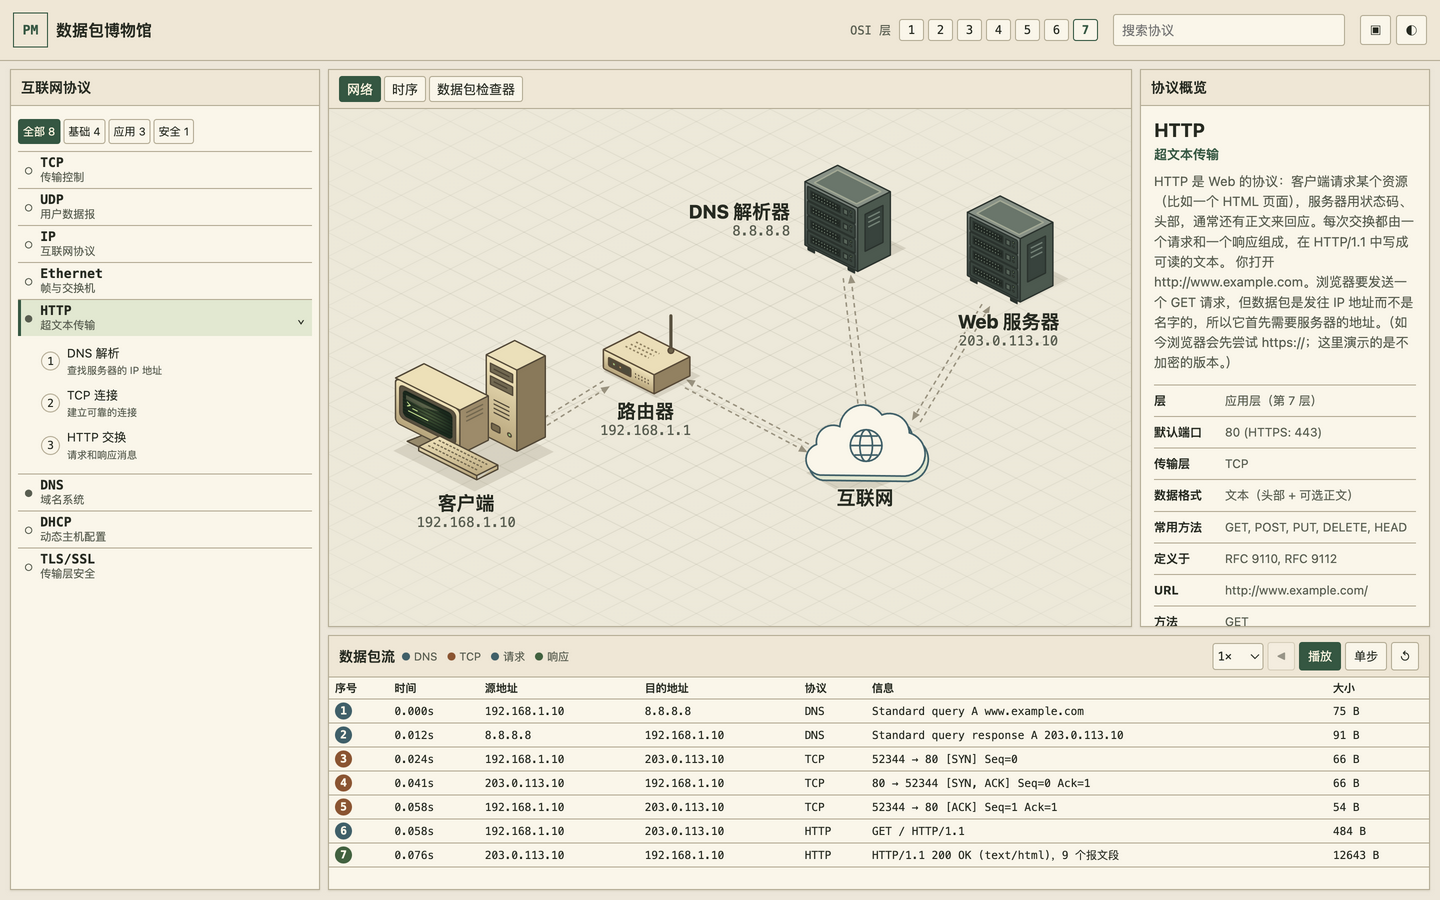
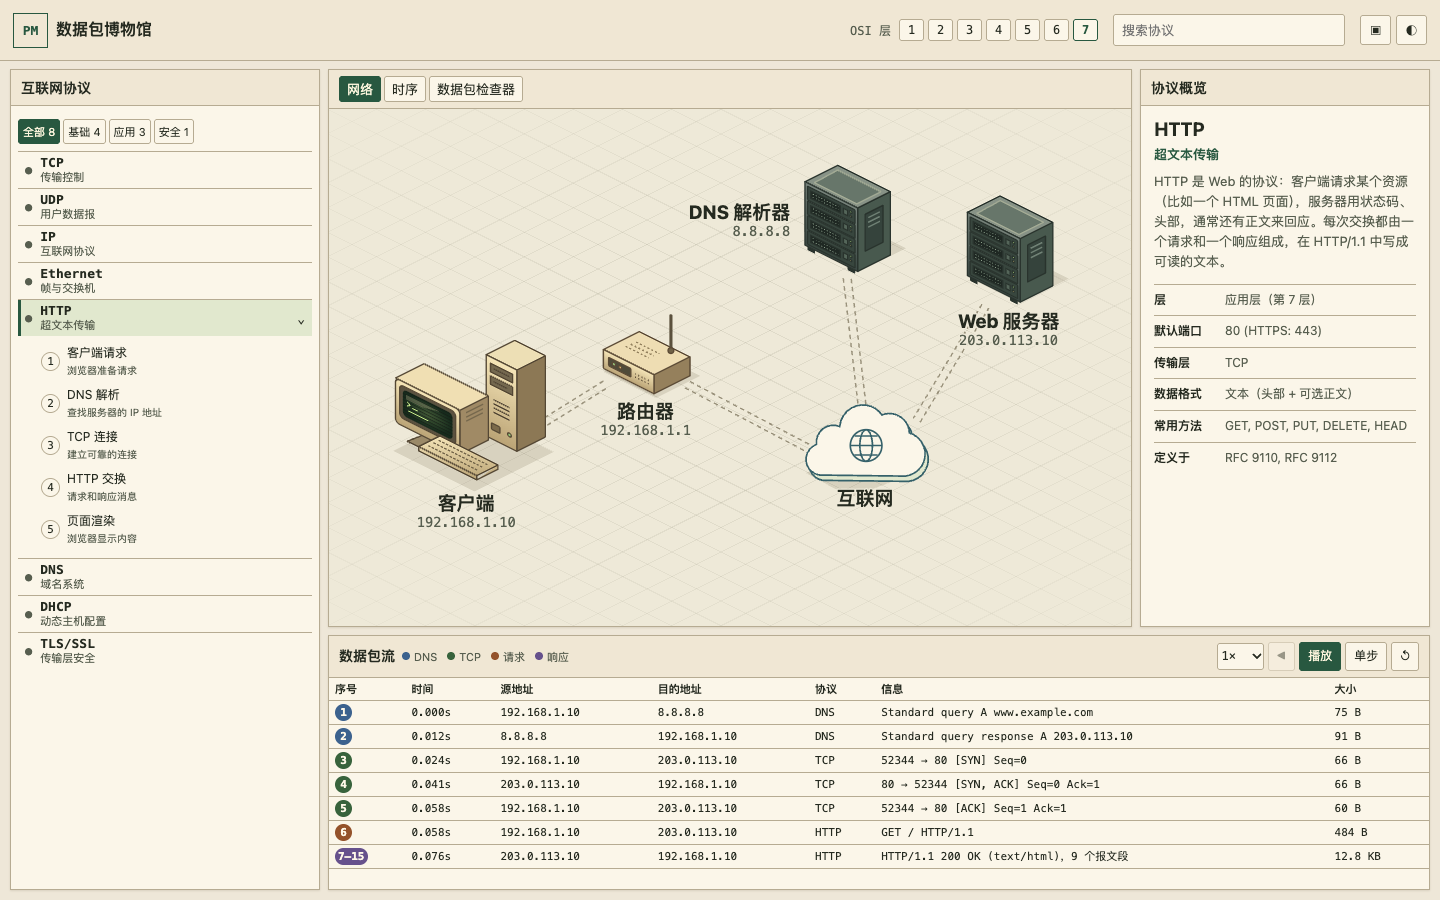
HTTP 课程加入无报文步骤并支持查看分段响应

diff --git a/src/lessons/http/frames.js b/src/lessons/http/frames.js
@@ -6,7 +6,7 @@ const clientMac = '00:00:5e:00:53:10', routerMac = '00:00:5e:00:53:01';
 const pathTo = endpoint => ['client', 'router', 'internet', endpoint];
 
 function ethernetIPv4(src, dst, id, ttl, flags, protocol, payload, reply) {
-  return ethernet({ src: reply ? routerMac : clientMac, dst: reply ? clientMac : routerMac,
+  return ethernet({ src: reply ? routerMac : clientMac, dst: reply ? clientMac : routerMac, pad: true,
     payload: ipv4({ src, dst, id, ttl, flags, protocol, payload }) });
 }
 
@@ -60,16 +60,25 @@ const rows = [
   ['web', true, tcpFrames[1], 'TCP', '0.041s', '80 → 52344 [SYN, ACK] Seq=0 Ack=1', 'tcp', ['SYN-ACK', 'seq=0 ack=1']],
   ['web', false, tcpFrames[2], 'TCP', '0.058s', '52344 → 80 [ACK] Seq=1 Ack=1', 'tcp', ['ACK', 'seq=1 ack=1']],
   ['web', false, tcpFrames[3], 'HTTP', '0.058s', 'GET / HTTP/1.1', 'request', ['GET / HTTP/1.1', 'Host: www.example.com'], 'http'],
-  ['web', true, response, 'HTTP', '0.076s', 'HTTP/1.1 200 OK (text/html)，9 个报文段', 'reply', ['HTTP/1.1 200 OK', '12.2 KB，分 9 个报文段']],
 ];
 
-export const frames = rows.map(([endpoint, reply, bytes, protocol, time, summary, category, badge, application], i) => {
+export const responseIds = [];
+const { client, web } = addresses;
+for (let offset = 0, i = 0; offset < response.length; offset += 1460, i++) {
+  const payload = response.subarray(offset, offset + 1460), last = offset + payload.length === response.length;
+  const segment = tcp({ src: web, dst: client, srcPort: 80, dstPort: 52344,
+    seq: 2474976681 + offset, ack: 59972903 + request.length, flags: last ? 0x18 : 0x10, window: 501, payload });
+  responseIds.push(`http-${rows.length + 1}`);
+  rows.push(['web', true, ethernetIPv4(web, client, 3588 + i, 52, 0x4000, 6, segment, true), 'TCP', '0.076s',
+    `HTTP 响应 · TCP 段 ${i + 1}/9`, 'reply', ['HTTP/1.1 200 OK', '12.2 KB，分 9 个报文段'], undefined, 900 + i * 110]);
+}
+
+export const frames = rows.map(([endpoint, reply, bytes, protocol, time, summary, category, badge, application, leadMs], i) => {
   const path = pathTo(endpoint);
   if (reply) path.reverse();
   return {
     id: `http-${i + 1}`, path, bytes, protocol, time, summary, category, badge, application,
-    // shortcut: Inspect the reassembled message, not a fabricated jumbo TCP frame; upgrade when rows can group real segments.
-    ...(bytes === response ? { format: 'http', addresses: { src: addresses.web, dst: addresses.client } } : {}),
     ...(i === 0 ? { leadMs: 2400 } : {}),
+    ...(leadMs !== undefined ? { leadMs } : {}),
   };
 });

diff --git a/src/lessons/http/index.js b/src/lessons/http/index.js
@@ -1,4 +1,4 @@
-import { addresses, frames } from './frames.js';
+import { addresses, frames, responseIds } from './frames.js';
 import { outro, overview, preparation, rendering, stages } from './copy.js';
 
 const nodes = [
@@ -18,20 +18,20 @@ const links = [
 
 export default {
   meta: { id: 'http', title: 'HTTP', subtitle: '超文本传输', group: 2, order: 1, layer: 7 },
-  // shortcut: No-packet stages use the overview and summary until playback accepts steps without frames.
-  overview: { ...overview, text: `${overview.text} ${preparation.text}`, facts: [...overview.facts, ...preparation.facts] },
-  outro: { ...outro, text: `${rendering.text} ${outro.text}`, facts: [...rendering.facts.slice(0, 2), ...outro.facts] },
-  nodes, links, frames,
+  overview, outro, nodes, links, frames,
+  reassembly: [{ frames: responseIds, protocol: 'HTTP', application: 'http', summary: 'HTTP/1.1 200 OK (text/html)，9 个报文段' }],
   sequenceNodes: ['client', 'resolver', 'web'],
   legend: {
-    dns: { label: 'DNS', tone: 'query' },
-    tcp: { label: 'TCP', tone: 'referral' },
-    request: { label: '请求', title: 'GET /', tone: 'query' },
-    reply: { label: '响应', title: '200 OK', tone: 'reply' },
+    dns: { label: 'DNS', tone: 'blue' },
+    tcp: { label: 'TCP', tone: 'reply' },
+    request: { label: '请求', title: 'GET /', tone: 'referral' },
+    reply: { label: '响应', title: '200 OK', tone: 'violet' },
   },
   steps: [
+    { id: 'request', ...preparation, nodes: ['client', 'router'], closeup: ['client'], events: [{ node: 'client', text: 'http://www.example.com/' }] },
     { id: 'dns', ...stages[0], frames: ['http-1', 'http-2'], nodes: ['client', 'router', 'internet', 'resolver'], closeup: ['client', 'router'] },
     { id: 'tcp', ...stages[1], frames: ['http-3', 'http-4', 'http-5'], wide: true },
-    { id: 'exchange', ...stages[2], frames: ['http-6', 'http-7'], wide: true },
+    { id: 'exchange', ...stages[2], frames: ['http-6', ...responseIds], parallel: [responseIds], wide: true },
+    { id: 'render', ...rendering, nodes: ['client'], events: [{ node: 'client', time: '0.094s', text: 'HTML 页面已渲染' }] },
   ],
 };

diff --git a/src/lessons/http/copy.js b/src/lessons/http/copy.js
@@ -10,10 +10,10 @@ export const stages = [
     [['解析器', '8.8.8.8（已有缓存）'], ['传输层', 'UDP，53 端口'], ['回答', 'A 203.0.113.10']]),
   detail('TCP 连接', '建立可靠的连接',
     'HTTP 运行在 TCP 之上。在任何页面数据传输之前，笔记本电脑和服务器先通过三次握手（SYN、SYN-ACK、ACK）打开一个到 80 端口的连接。',
-    [['服务器端口', '80'], ['客户端端口', '52344 (ephemeral)'], ['握手', 'SYN → SYN-ACK → ACK']]),
+    [['服务器端口', '80'], ['客户端端口', '52344（临时端口）'], ['握手', 'SYN → SYN-ACK → ACK']]),
   detail('HTTP 交换', '请求和响应消息',
-    '浏览器发送一个带 Host 头部的 GET 请求。服务器以 200 OK 回应，正文中是 HTML：共 12.2 KB，一个数据包装不下，所以 TCP 把它分成 9 个最多 1460 字节的报文段（这里画成一个）。',
-    [['状态', '200 OK'], ['正文', 'text/html, 12.2 KB'], ['发送方式', '9 TCP segments']]),
+    '浏览器发送一个带 Host 头部的 GET 请求。服务器以 200 OK 回应，正文中是 HTML：共 12.2 KB，一个数据包装不下，所以 TCP 把它分成 9 个最多承载 1460 字节的报文段。',
+    [['状态', '200 OK'], ['正文', 'text/html, 12.2 KB'], ['发送方式', '9 个 TCP 报文段']]),
 ];
 
 export const rendering = detail('页面渲染', '浏览器显示内容',
